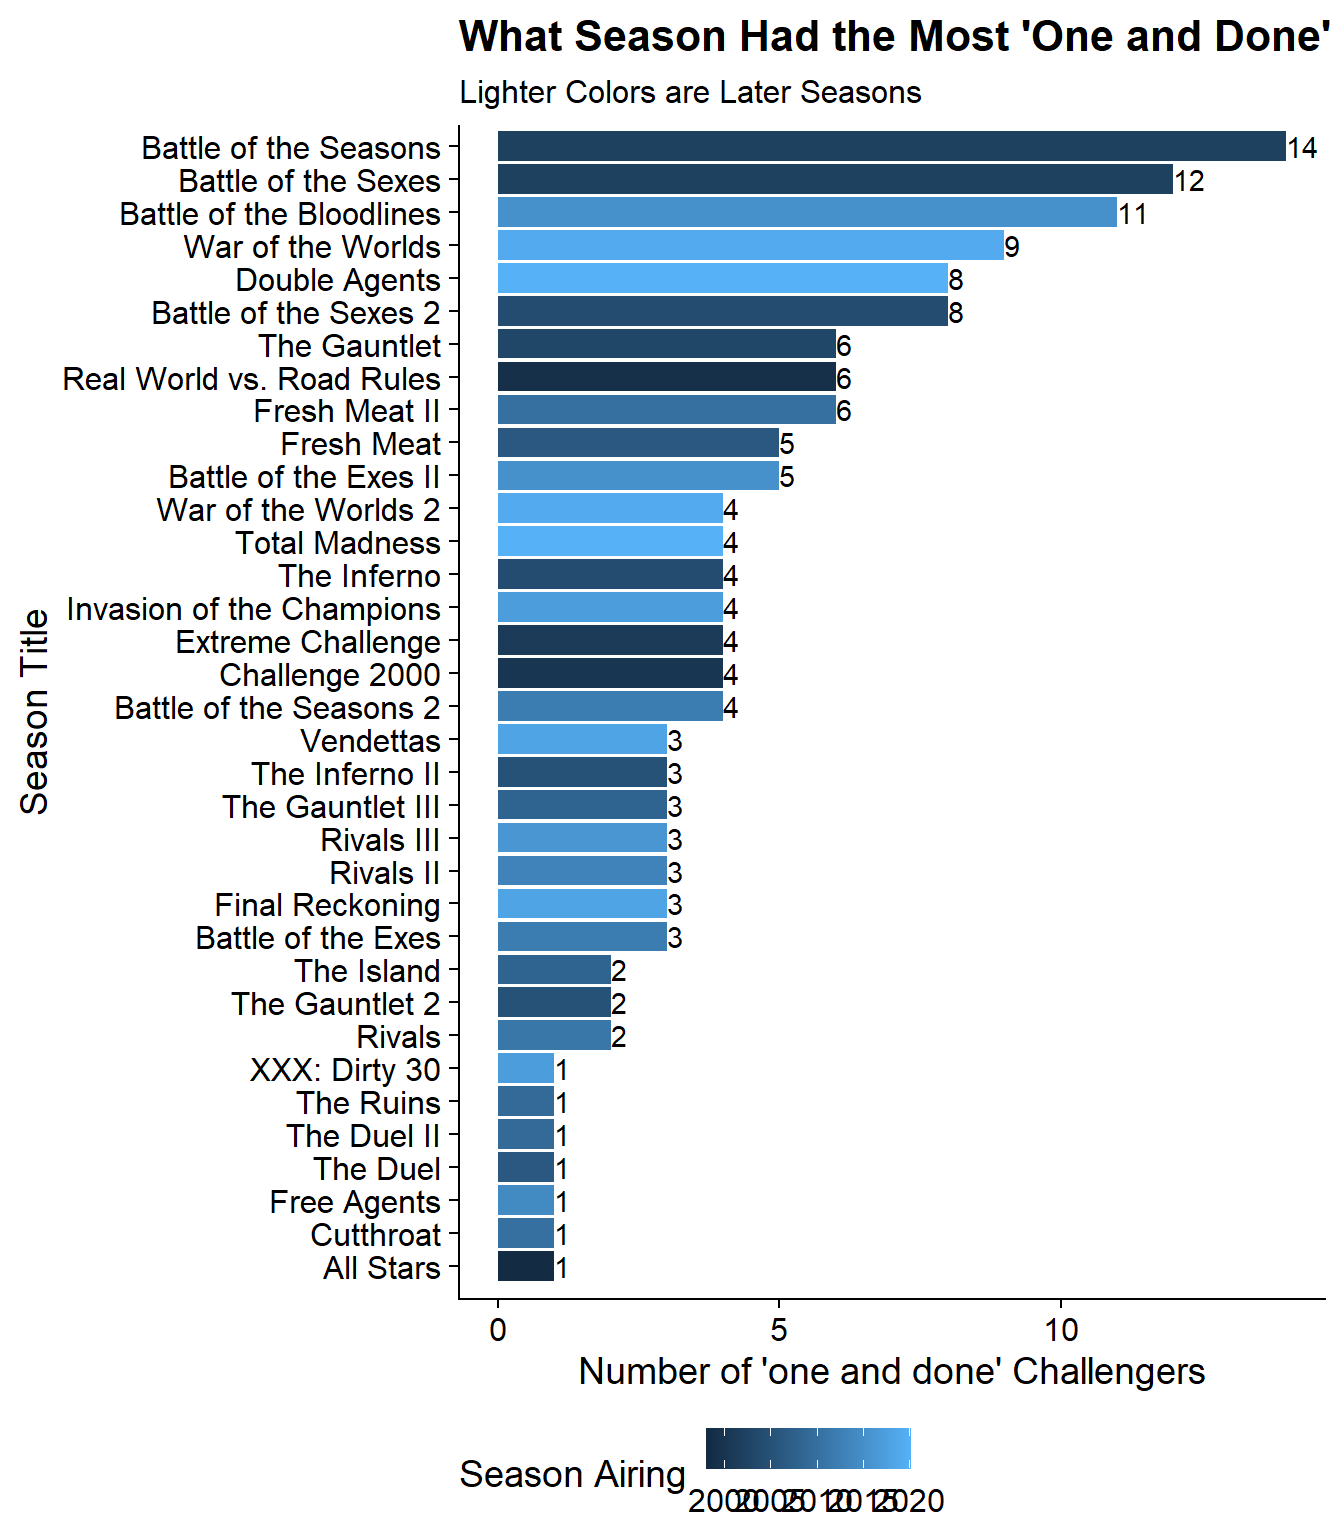
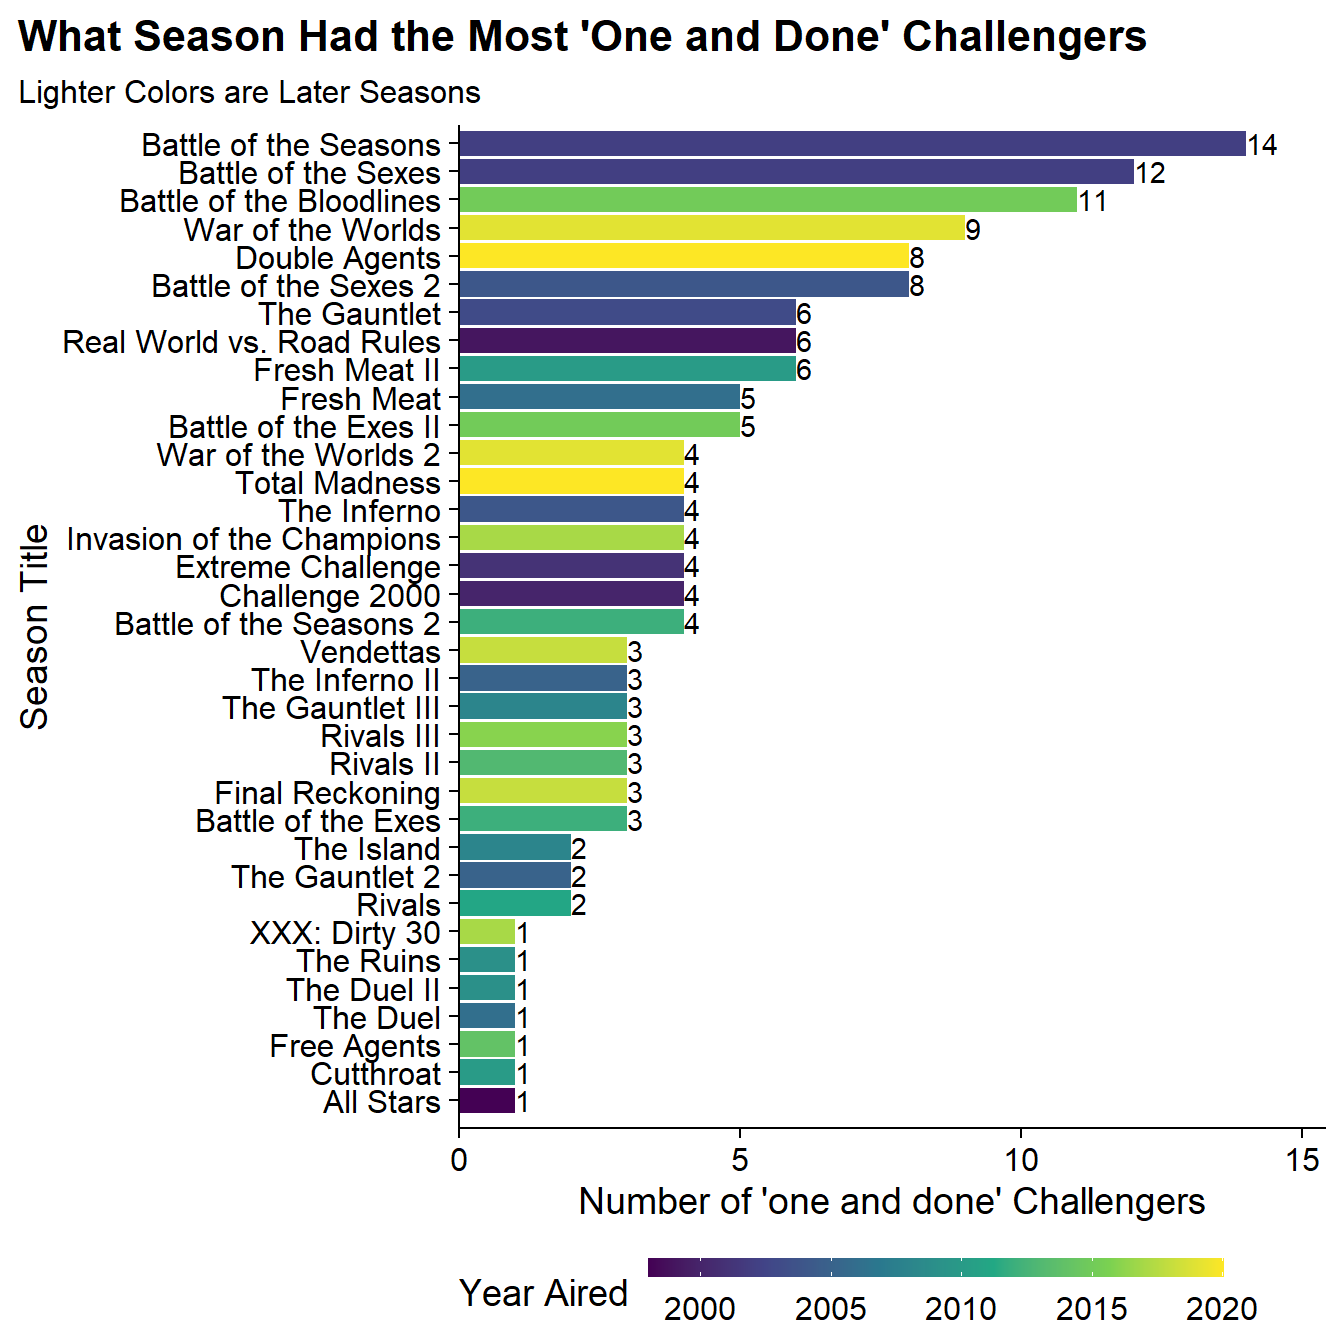
Image tweaks part 1

Changed region(s): [[0.0, 0.0, 1.0, 0.875], [0.3438, 0.8438, 0.9375, 1.0], [0.9375, 0.8438, 1.0, 0.875]]

diff --git a/content/post/2021-09-15-finding-the-eras-of-mtv-s-the-challenge-through-clustering/index.html b/content/post/2021-09-15-finding-the-eras-of-mtv-s-the-challenge-through-clustering/index.html
@@ -33,13 +33,13 @@ projects: []
 <pre class="r"><code>library(tidygraph) # For manipulating network data sets
 library(ggraph) # For visualizing network data sets
 library(tidyverse) # General Data Manipulation
-library(rvest) # For webscraping data from wikipedia
+library(rvest) # For web scraping data from Wikipedia
 library(widyr) # For calculating cosine similarity of seasons
 library(umap) # For dimensionality reduction</code></pre>
 </div>
 <div id="getting-the-data" class="section level2">
 <h2>Getting the Data</h2>
-<p>Since the goal is to cluster the seasons of the The Challenge based on similarity of their casts, I need to get the cast list from each of the 37 seasons. Fortunately, Wikipedia contains the casts within each season’s page. Unfortunately, I’m lazy and really don’t want to specifically hunt down the URLs for each of 37 seasons and write individual rvest code. So I’ll use the <a href="https://en.wikipedia.org/wiki/The_Challenge_(TV_series)#Seasons">Seasons</a> table on Wikipedia to act as a driver file for each season’s page using <code>rvest</code> to extract the table using its xpath, pulling out all of the anchor elements (<a>) <em>html_attrs()</em> to extract all of the attributes into a list and using <code>purrr</code>’s <code>map_dfr</code> function to combine all of the links into a list. Unforunately, there are multiple links on row of the table (one for the title and one of the location of the season), so using <code>stringr</code>’s <em>str_detect</em>, I’ll keep only the rows that has the word “Challenge” in the title. Or “Stars” in the case of the first season which was just called “Road Rules: All-Stars”.</p>
+<p>Since the goal is to cluster the seasons of the The Challenge based on similarity of their casts, I need to get the cast list from each of the 37 seasons. Fortunately, Wikipedia contains the casts within each season’s page. Unfortunately, I’m lazy and really don’t want to specifically hunt down the URLs for each of 37 seasons and write individual rvest code. So I’ll use the <a href="https://en.wikipedia.org/wiki/The_Challenge_(TV_series)#Seasons">Seasons</a> table on Wikipedia to act as a driver file for each season’s page using <code>rvest</code> to extract the table using its xpath, pulling out all of the anchor elements (<a>) <em>html_attrs()</em> to extract all of the attributes into a list and using <code>purrr</code>’s <code>map_dfr</code> function to combine all of the links into a list. Unfortunately, there are multiple links on row of the table (one for the title and one of the location of the season), so using <code>stringr</code>’s <em>str_detect</em>, I’ll keep only the rows that has the word “Challenge” in the title. Or “Stars” in the case of the first season which was just called “Road Rules: All-Stars”.</p>
 <pre class="r"><code>seasons &lt;- read_html(&#39;https://en.wikipedia.org/wiki/The_Challenge_(TV_series)&#39;) %&gt;%
   html_element(xpath = &#39;/html/body/div[3]/div[3]/div[5]/div[1]/table[2]&#39;) %&gt;% 
   html_elements(&#39;a&#39;) %&gt;% 
@@ -91,16 +91,18 @@ library(umap) # For dimensionality reduction</code></pre>
 <p>In the original Battle of the Seasons there were pairs (one male and one female from each season) that were also classified into teams (Real World or Road Rules). For this season, there were two tables to extract and each with two columns, one for the male and one for the female.</p>
 <p><img src="two_table_two_names.jpg" /></p>
 <p>There was no easy way (or at least one that I wanted to deal with) to automatically classify each of the 37 seasons into these three types so I manually looked at all 37 season Wikipedia pages and coded in which tables to extract and which columns to extract within each table.</p>
-<pre class="r"><code>## Set up which tables and columns to extract from WikiPedia
+<pre class="r"><code>## Set up which tables and columns to extract from Wikipedia
 seasons &lt;- seasons %&gt;%
   mutate(
     season_num = row_number(), #Define Season Identifier
+    # Set Table Numbers On Page To Extract
     table_num = case_when(
       season_num %in% c(1, 12, 16, 19) ~ &#39;2&#39;,
       season_num %in% c(27) ~ &#39;3&#39;,
       season_num %in% c(2, 4, 5, 6, 9, 11) ~ &#39;4,5&#39;,
       TRUE ~ &#39;3, 4&#39;
     ),
+    # Set Column Numbers to Extract From Each Table
     keep_cols = case_when(
       season_num %in% c(5) ~ &#39;1, 2&#39;,
       season_num %in% c(12, 19, 27) ~ &#39;1, 3&#39;,
@@ -181,7 +183,7 @@ all_cast &lt;- pmap_dfr(list(seasons$href,
 </table>
 <div id="cleaning-the-data-and-final-preparations" class="section level3">
 <h3>Cleaning the Data and Final Preparations</h3>
-<p>The data on Wikipedia is <em>fairly</em> clean but there are places where automation is no substitute for domain knowledge. In this case the cast tables refer to what people were called in that specific season. But in some cases as cast members have returned for multiple seasons what they have been called has changed. For example. the now host of NBC’s First Look, Johnny “Bananas” Devenanzio, began his time on The Challenge as “John Devenanzio”, then “Johnny Devenanzio”, and finally, “Johnny ‘Bananas’ Devenanzio” for his most recent 12 seasons. Some female cast members married as “Tori Hall” became “Tori Fiorenza”. And in the most subtle of changes, “Nany González” appears both with and without the accent over the “a” (huge shoutout to the <a href="https://www.reddit.com/r/MtvChallenge/comments/pj8by1/oc_visualizing_the_most_frequently_appearing/">r/MtvChallenge</a> sub-reddit for calling me out on that when it cause Nany to not appear in my data visualization).</p>
+<p>The data on Wikipedia is <em>fairly</em> clean but there are places where automation is no substitute for domain knowledge. In this case the cast tables refer to what people were called in that specific season. But in some cases as cast members have returned for multiple seasons what they have been called has changed. For example. the now host of NBC’s First Look, Johnny “Bananas” Devenanzio, began his time on The Challenge as “John Devenanzio”, then “Johnny Devenanzio”, and finally, “Johnny ‘Bananas’ Devenanzio” for his most recent 12 seasons. Some female cast members married as “Tori Hall” became “Tori Fiorenza”. And in the most subtle of changes, “Nany González” appears both with and without the accent over the “a” (huge shoutout to the <a href="https://www.reddit.com/r/MtvChallenge/comments/pj8by1/oc_visualizing_the_most_frequently_appearing/">r/MtvChallenge</a> sub-Reddit for calling me out on that when it cause Nany to not appear in my data visualization).</p>
 <p>Other changes are less interesting such as removing footnotes from people’s names, fixing that in the Seasons table both Season 5 and Season 23 are called “Battle of the Seasons”, and appending the season’s names onto the cast table</p>
 <pre class="r"><code>###Clean up the Cast Member Columns and Clean up The Title Columns
 ###Domain Knowledge that these are all the same people (especially the married ones)
@@ -241,12 +243,12 @@ As any Challenge fan knows, Johnny Bananas has been on the most seasons with 20 
 <div id="looking-at-consecutive-season-behavior" class="section level2">
 <h2>Looking at Consecutive Season Behavior</h2>
 <p>An interesting visualization we can do is to explore how frequently Challengers are on consecutive seasons using a series of dumbbell plots. In this plot there will be a point for each endpoint of a stretch of consecutive seasons and they will be connected by a line.</p>
-<p>Check out the post on the <a href="https://www.reddit.com/r/MtvChallenge/comments/pj8by1/oc_visualizing_the_most_frequently_appearing/">r/MtvChallenge</a> sub-reddit for a nicer (although slightly wrong) version of this plot.</p>
+<p>Check out the post on the <a href="https://www.reddit.com/r/MtvChallenge/comments/pj8by1/oc_visualizing_the_most_frequently_appearing/">r/MtvChallenge</a> sub-Reddit for a nicer (although slightly wrong) version of this plot.</p>
 <pre class="r"><code>all_cast_info %&gt;% 
     ## Add the number of seasons for each challenger as a new column
     add_count(Name, name = &#39;num_seasons&#39;) %&gt;%
-    # Filter to only those who have been on 7+ seasons
-    filter(num_seasons &gt;= 7) %&gt;%
+    # Filter to only those who have been on 10+ seasons
+    filter(num_seasons &gt;= 10) %&gt;%
     # For each challenger define consecutive segments based on when the prior
     # season number is more than 1 or missing (for the first observation)
     group_by(Name) %&gt;%
@@ -270,18 +272,18 @@ As any Challenge fan knows, Johnny Bananas has been on the most seasons with 20 
     scale_color_discrete(guide = &#39;none&#39;) +
     scale_y_continuous(breaks = seq(1, 37, 2)) + 
     labs(x = &quot;&quot;, y = &quot;Seasons&quot;, title = &quot;How Often Were Challengers On The Show?&quot;,
-         subtitle = &quot;*Only Challengers Appearing On At Least 7 Seasons Ordered By First Appearance*&quot;,
+         subtitle = &quot;*Only Challengers Appearing On At Least 10 Seasons Ordered By First Appearance*&quot;,
          caption = &quot;*Source:* Wikipedia | **Author:** Jlaw&quot;) + 
     coord_flip() + 
     cowplot::theme_cowplot() + 
     theme(
       panel.grid.major.y = element_line(size = .5, color = &#39;#DDDDDD&#39;),
-      plot.title = element_text(hjust = .5),
+      plot.subtitle = ggtext::element_markdown(),
+      plot.title.position = &#39;plot&#39;,
       plot.caption = ggtext::element_markdown(),
-      plot.subtitle = ggtext::element_markdown(hjust = .5),
       axis.ticks.y = element_blank()
     )</code></pre>
-<p><img src="{{< blogdown/postref >}}index_files/figure-html/dumbbell-1.png" width="768" /></p>
+<p><img src="{{< blogdown/postref >}}index_files/figure-html/dumbbell-1.png" width="672" /></p>
 </div>
 <div id="which-seasons-had-the-highest-percentage-of-one-and-done-challengers" class="section level2">
 <h2>Which Seasons Had the Highest Percentage of “one and done” Challengers?</h2>
@@ -296,11 +298,15 @@ As any Challenge fan knows, Johnny Bananas has been on the most seasons with 20 
     labs(x = &quot;Season Title&quot;, y = &quot;Number of &#39;one and done&#39; Challengers&quot;,
          title = &quot;What Season Had the Most &#39;One and Done&#39; Challengers&quot;,
          subtitle = &quot;Lighter Colors are Later Seasons&quot;,
-         fill = &quot;Season Airing&quot;) +
+         fill = &quot;Year Aired&quot;) +
+    scale_y_continuous(expand = expansion(mult = c(0, .1))) + 
+    scale_fill_viridis_c() + 
+    guides (fill = guide_colourbar(barwidth = 15, barheight = 0.5)) + 
     expand_limits(x = 0, y = 0) + 
     coord_flip() + 
     cowplot::theme_cowplot() + 
     theme(
+        plot.title.position = &#39;plot&#39;,
         legend.position = &#39;bottom&#39;
     )</code></pre>
 <p><img src="{{< blogdown/postref >}}index_files/figure-html/one_and_done-1.png" width="672" /></p>
@@ -308,7 +314,7 @@ As any Challenge fan knows, Johnny Bananas has been on the most seasons with 20 
 </div>
 <div id="what-are-the-most-similar-episodes-of-the-challenge" class="section level2">
 <h2>What Are the Most Similar Episodes of the Challenge?</h2>
-<p>I can visualize season similarity in a network graph, however, I need to first restructure the data. Right now I just have all the positive cases but I need to build data that has every person/season combination with 1/0 indicators. Then I can use the <code>pairwise_similarity()</code> function from <code>widyr</code> to get the consine similarity of each season. The <code>upper=F</code> setting makes it so there’s only 1 row for each combination (e.g, only A, B rather than both A,B and B,A):</p>
+<p>I can visualize season similarity in a network graph, however, I need to first restructure the data. Right now I just have all the positive cases but I need to build data that has every person/season combination with 1/0 indicators. Then I can use the <code>pairwise_similarity()</code> function from <code>widyr</code> to get the cosine similarity of each season. The <code>upper=F</code> setting makes it so there’s only 1 row for each combination (e.g, only A, B rather than both A,B and B,A):</p>
 <pre class="r"><code>similarity &lt;- all_cast_info %&gt;%
   #Create an indicator for all the positive cases
   transmute(order, short_title, Name, ind = 1) %&gt;%
@@ -327,7 +333,6 @@ As any Challenge fan knows, Johnny Bananas has been on the most seasons with 20 
   pairwise_similarity(short_title, Name, ind, upper = F, diag = F) %&gt;% 
   arrange(-similarity)  %&gt;%
   filter(similarity &gt; .29)</code></pre>
-<pre class="r"><code>similarity %&gt;% head(3) %&gt;% kable()</code></pre>
 <table>
 <thead>
 <tr class="header">
@@ -355,10 +360,9 @@ As any Challenge fan knows, Johnny Bananas has been on the most seasons with 20 
 </tbody>
 </table>
 <p>The most similar seasons in the data are Vendettas (Season 31) and Final Reckoning (Season 32) which makes sense as these were consecutive seasons that were also the last two pieces of a trilogy.</p>
-<p>The similarity threshold of 0.29 was chosen judgmentally to include as many seasons as possible without over-complicating the graph. The next step in building the network graph itself. I’m setting a seed since the layout in <code>ggraph</code> is non-deterministic and I’d like to make it reproducible. The similarity dataframe is converted to a tbl_graph object with <code>as_tbl_graph</code>, I join in the short titles to from the labels and then set edges to have alpha values (transparency) tied to similarity and use the names for the node labels.</p>
+<p>The similarity threshold of 0.29 was chosen judgmentally to include as many seasons as possible without over-complicating the graph. The next step in building the network graph itself. I’m setting a seed since the layout in <code>ggraph</code> is non-deterministic and I’d like to make it reproducible. The similarity data frame is converted to a tbl_graph object with <code>as_tbl_graph</code>, I join in the short titles to from the labels and then set edges to have alpha values (transparency) tied to similarity and use the names for the node labels.</p>
 <pre class="r"><code>set.seed(20210904)
 as_tbl_graph(similarity) %&gt;%
-  #mutate(community = as.factor(group_infomap())) %&gt;%
   left_join(seasons_table, by = c(&#39;name&#39; = &quot;short_title&quot;)) %&gt;%
   ggraph(layout = &#39;fr&#39;) + 
     geom_edge_link(aes(alpha = similarity), width = 1.5) + 
@@ -381,7 +385,7 @@ Through the network graph we can see that the first two seasons aren’t connect
 <h2>Clustering the Seasons with Hierarchical Clustering</h2>
 <p>Now that EDA is done, its time to determine our eras through clustering. In order to use hierarchical clustering I need to create a distance matrix. So do so I will replicate some of the code from above where each row will be a season and each column a Challenger and the value will be either 1 if they were on that season or 0 otherwise.</p>
 <p>Since this data is binary I will be using a binary distance where 1 and 1 is a match and anything else is a mismatch (e.g, 0 and 0 despite being the same value does not count as similarity). The definition is the proportion of bits in which only one is one among those where at least one is one.</p>
-<p>Then the hierarchical clustering algorithm is run with <code>hclust</code>. There are many different agglomeration methods that can be used ranging from single (where difference between clusters is defined by their closest elements), complete (which defines differences by farthest apart elements), average (which is the average of all the points distance), and Ward which is the minimal distance beween sum of squres. For more information, see this <a href="https://stats.stackexchange.com/questions/195446/choosing-the-right-linkage-method-for-hierarchical-clustering/217742#217742">CrossValidated</a> answer.</p>
+<p>Then the hierarchical clustering algorithm is run with <code>hclust</code>. There are many different agglomeration methods that can be used ranging from single (where difference between clusters is defined by their closest elements), complete (which defines differences by farthest apart elements), average (which is the average of all the points distance), and Ward which is the minimal distance between sum of squares. For more information, see this <a href="https://stats.stackexchange.com/questions/195446/choosing-the-right-linkage-method-for-hierarchical-clustering/217742#217742">CrossValidated</a> answer.</p>
 <pre class="r"><code># Cast Data to Wide Format
 dt &lt;- all_cast_info %&gt;%
   transmute(order, short_title, Name, ind = 1) %&gt;%
@@ -401,7 +405,7 @@ dst &lt;- dt %&gt;%
   #&quot;ward.D2&quot;, &quot;single&quot;, &quot;complete&quot;, &quot;average&quot; (= UPGMA), &quot;mcquitty&quot; (= WPGMA),
   #&quot;median&quot; (= WPGMC) or &quot;centroid&quot; (= UPGMC).
   hclust(method = &#39;ward.D2&#39;)</code></pre>
-<p>I can then visualize the resulting dendrogram using the <code>plot()</code> function and supplying the short_title field I can previously excluded as a label parameter. By looking at the dendrogram it seems like there are five clusters which I will highlight with the <code>rect.hclust</code> function and specifing k=5:</p>
+<p>I can then visualize the resulting dendrogram using the <code>plot()</code> function and supplying the short_title field I can previously excluded as a label parameter. By looking at the dendrogram it seems like there are five clusters which I will highlight with the <code>rect.hclust</code> function and specifying k=5:</p>
 <pre class="r"><code>plot(dst, labels = dt$short_title, 
      main = &#39;Hierarchical Clustering of Challenge Seasons&#39;,
      xlab = &#39;&#39;)
@@ -428,7 +432,7 @@ Based on the dendrogram, there are five clusters:</p>
 <li>Cluster 5: Season 33 (War of the World) through Season 37 (Current Season)</li>
 </ul>
 <p>War of the Worlds was again a large influx of new cast members</p>
-<p>So it seems like the algorithm latched on to changepoints where the casts became heavily rookies, which would make sense since that is a forced dissimilarity.</p>
+<p>So it seems like the algorithm latched on to change points where the casts became heavily rookies, which would make sense since that is a forced dissimilarity.</p>
 <p>Going back to the data, I can then add the get the cluster results through the <code>cuttree</code> function and providing it with the k=5 value and add it back to the original dataset with <code>mutate()</code>:</p>
 <pre class="r"><code>h_clust_results &lt;- dt %&gt;%
   mutate(cluster = cutree(dst, k = 5))</code></pre>
@@ -460,7 +464,7 @@ ump &lt;- umap(dt %&gt;% select(-order, -short_title))</code></pre>
 Overall, the UMAP projection captures similar information to the clustering since both methods were unsupervised and the colors (the prior clusters) are very close in the UMAP projected space.</p>
 <div id="predicting-new-observations-with-umap" class="section level3">
 <h3>Predicting New Observations with UMAP</h3>
-<p>In the summer of 2020, <a href="https://en.wikipedia.org/wiki/The_Challenge:_All_Stars">THe Challenge: All Stars</a> aired on Paramount+. The series was intended to bring back fan favorites from early seasons of the challenge (although whether the actual cast would be considered fan favorites, all-stars, or from early seasons was debatable). An interesting final question to ask is: <em>what cluster would The Challenge: All Stars belong to in the UMAP space?</em>.</p>
+<p>In the summer of 2020, <a href="https://en.wikipedia.org/wiki/The_Challenge:_All_Stars">The Challenge: All Stars</a> aired on Paramount+. The series was intended to bring back fan favorites from early seasons of the challenge (although whether the actual cast would be considered fan favorites, all-stars, or from early seasons was debatable). An interesting final question to ask is: <em>what cluster would The Challenge: All Stars belong to in the UMAP space?</em>.</p>
 <p>This next block of code is going to do a lot of heavy lifting but isn’t dissimilar from what was done in the earlier parts of this post. I will be downloading the cast from Wikipedia, cleaning it (more marriages and nicknames), and adding it to the original data set to get the 0 cases and the filtering it back to The Challenge: All Stars season.</p>
 <pre class="r"><code>all_stars &lt;- 
   # Take Original Data Set
